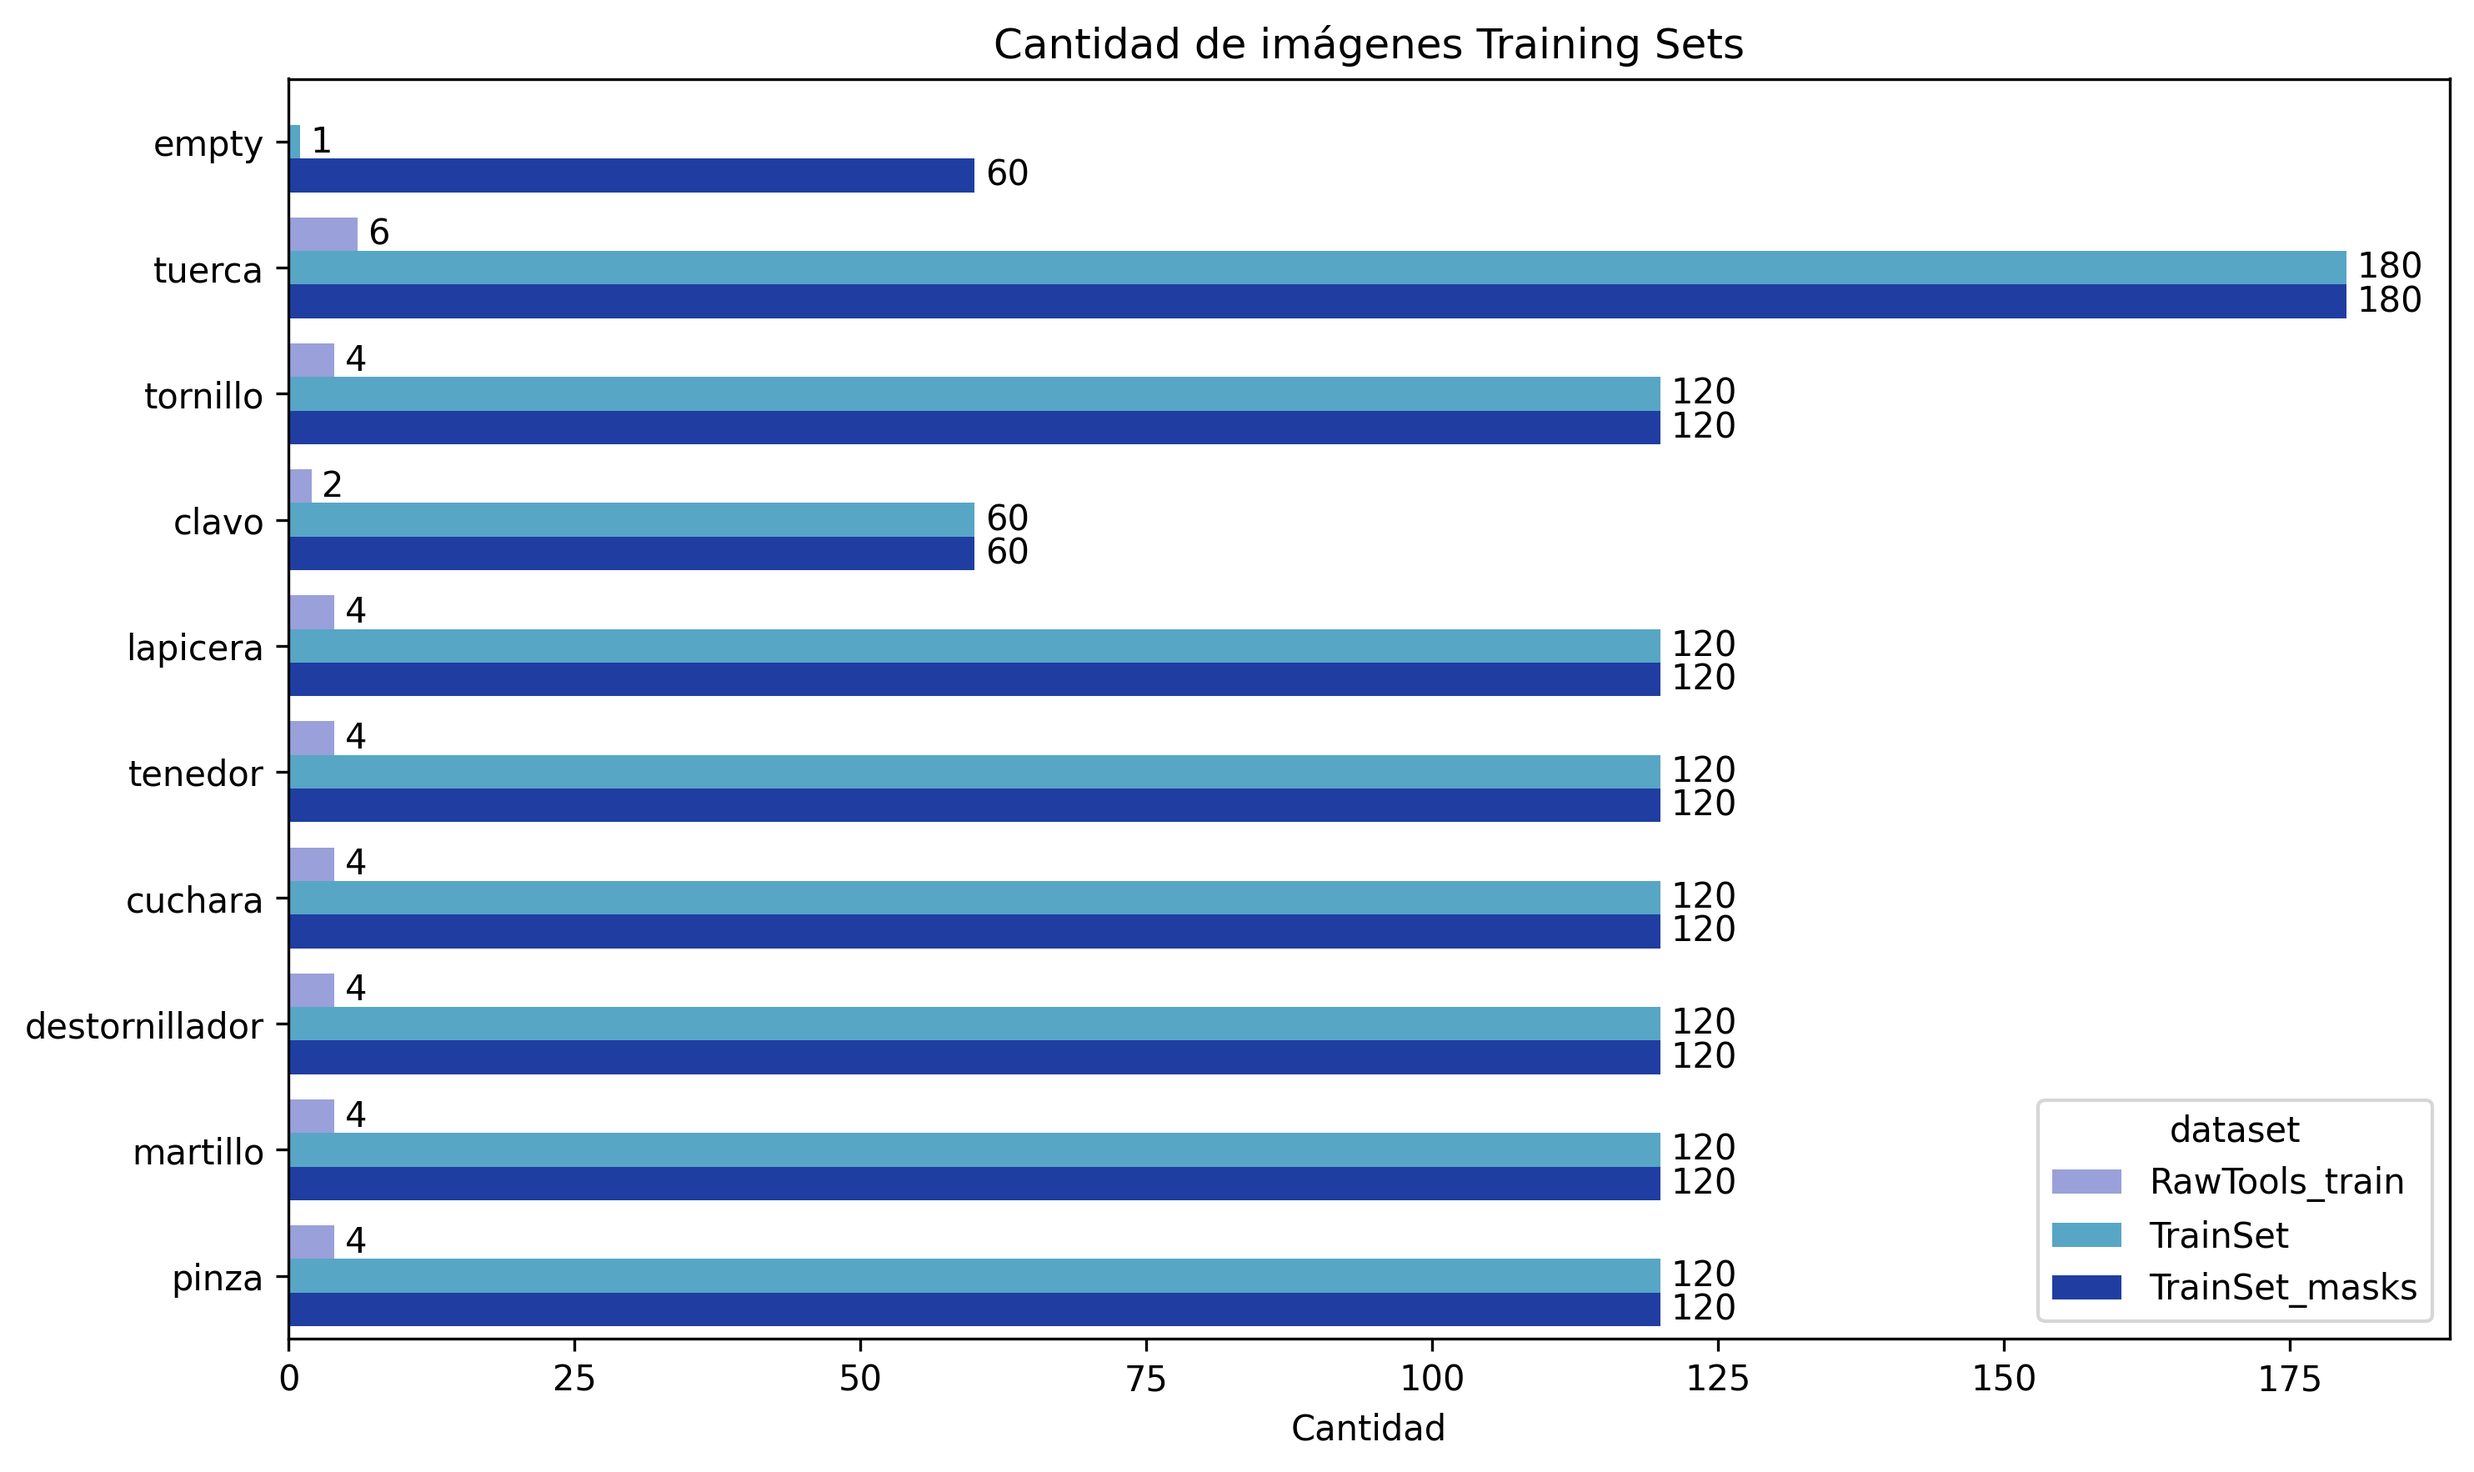
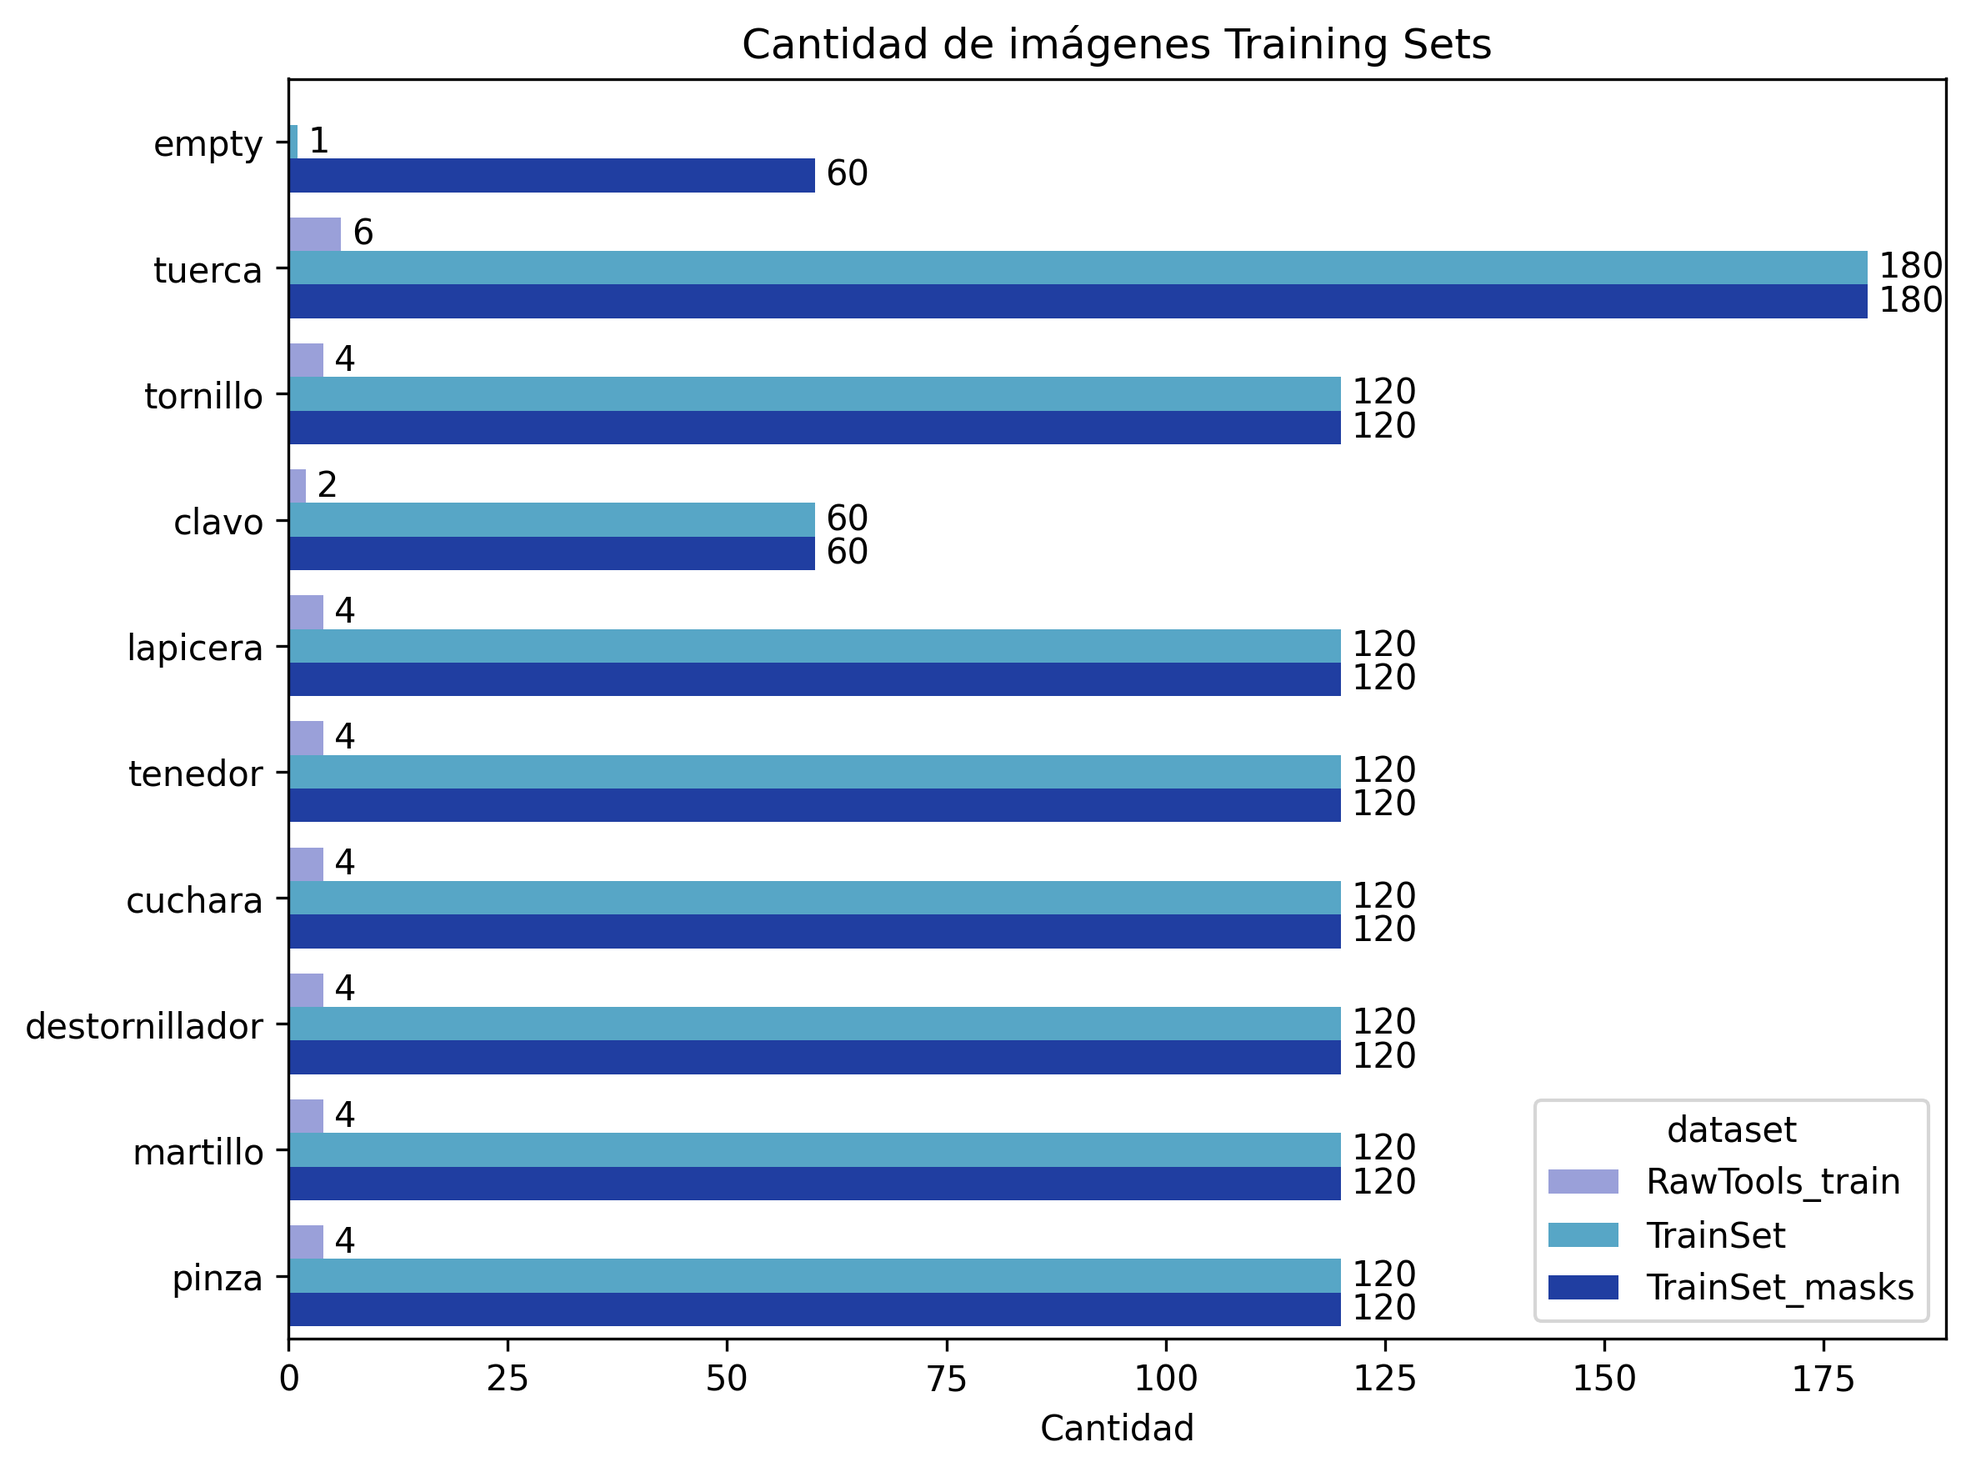
arreglos menores doc datasets

diff --git a/Desarrollo/simulation/Env04/Data_Visualization/distribuciones_datasets.py b/Desarrollo/simulation/Env04/Data_Visualization/distribuciones_datasets.py
@@ -29,7 +29,7 @@ def create_dataframe(path, dataset_names):
     return df
     
 def plot_distributions(df_data, palette, title, show=True, filename=None):
-    fig, ax = plt.subplots(figsize=(10, 6))
+    fig, ax = plt.subplots(figsize=(8, 6))
 
     #df = pd.DataFrame({"label": data})
 
